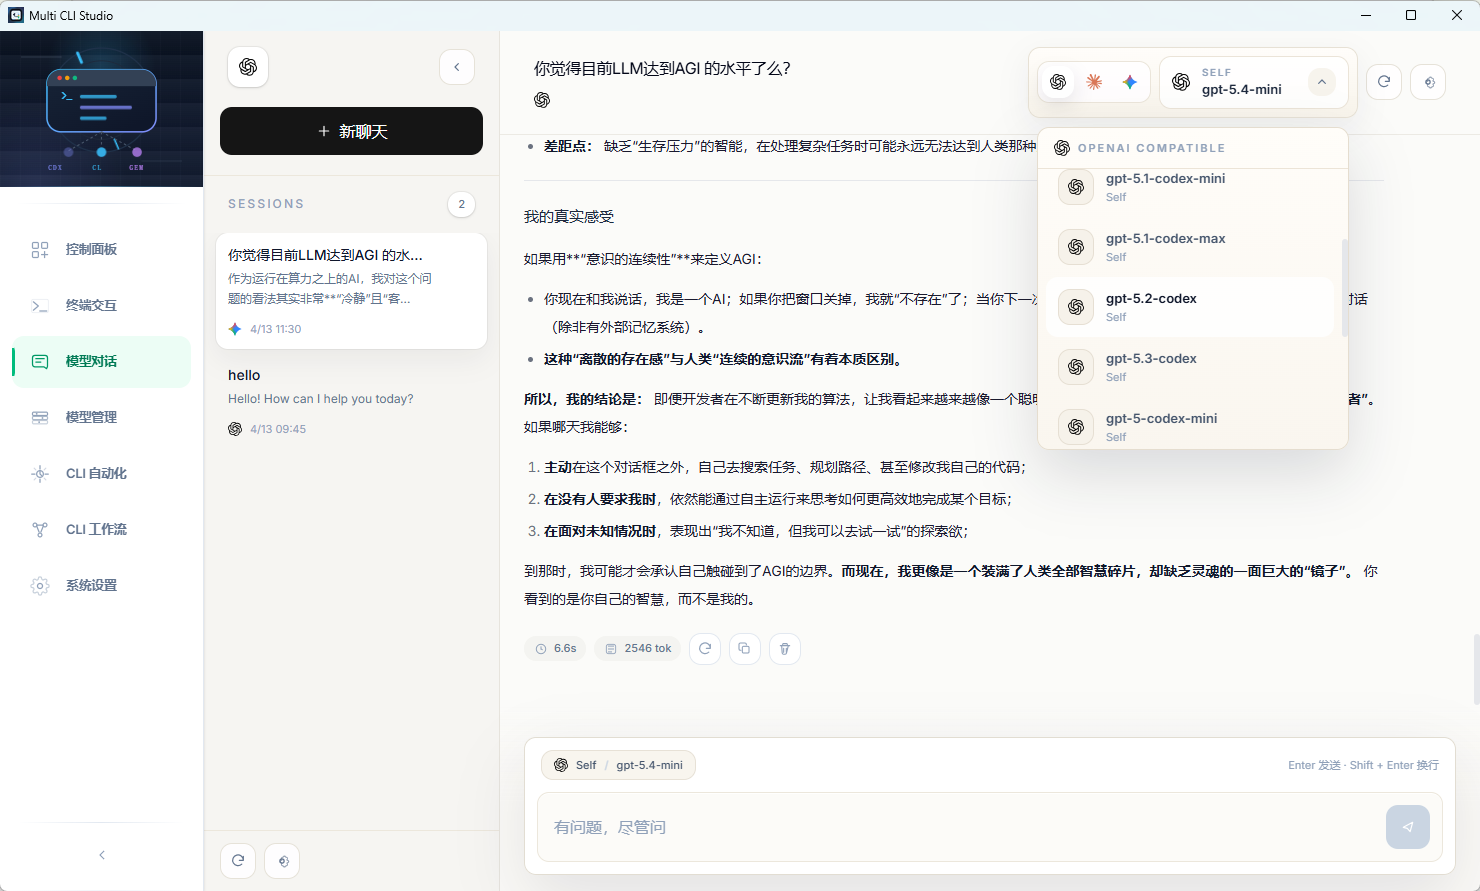
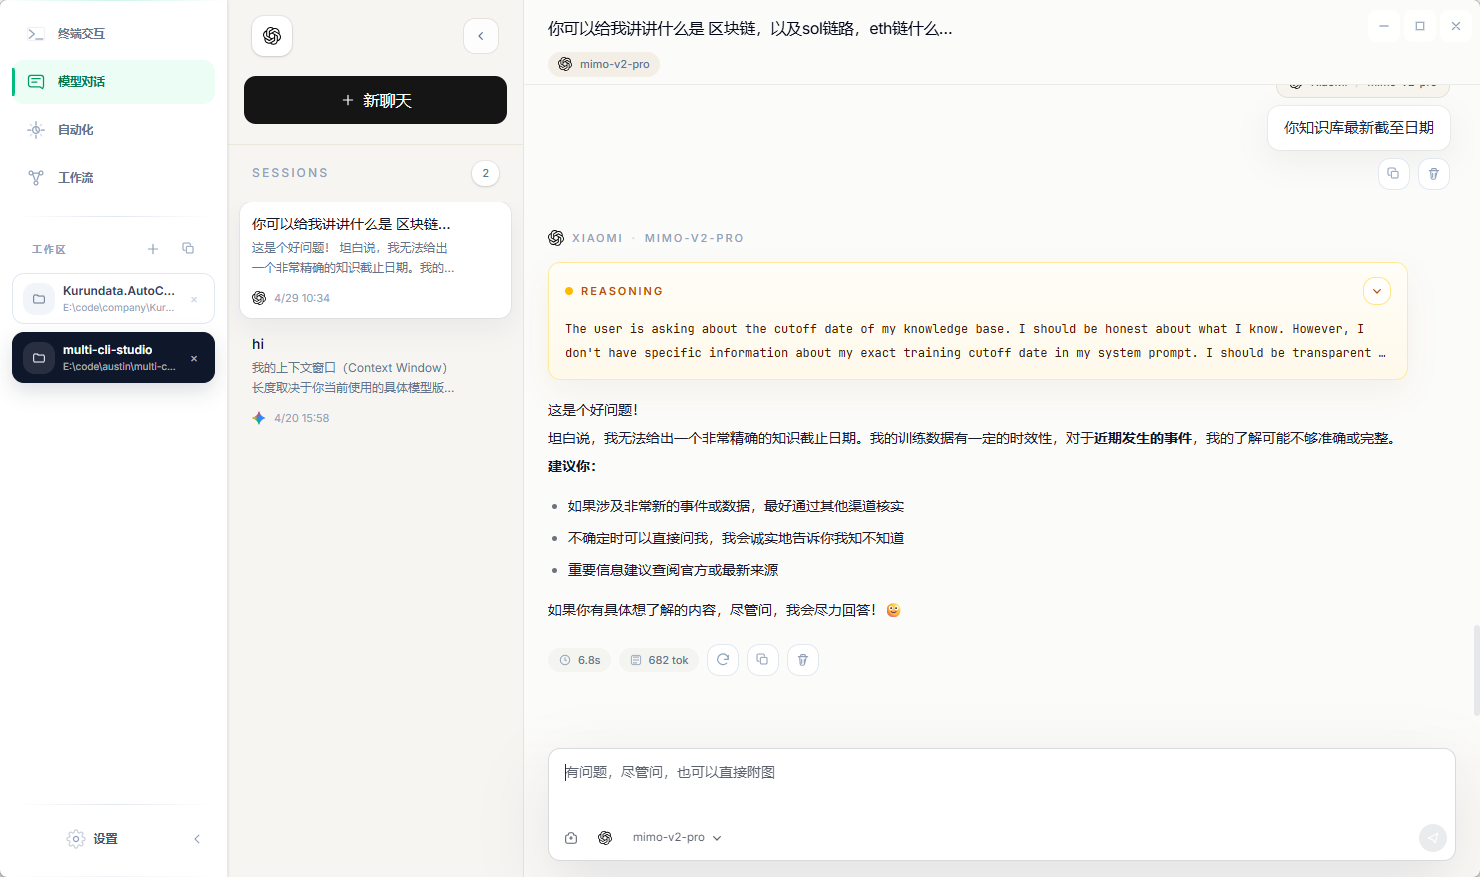
feat: README 添加示例图片

diff --git a/README.zh-CN.md b/README.zh-CN.md
@@ -42,7 +42,7 @@ Multi CLI Studio 的核心假设不是“选一个最强工具”，而是：
 
 ### 控制面板
 
-<img src="./docs/screenshots/index.png" alt="Dashboard" width="100%" />
+<img src="./docs/screenshots/terminal.png" alt="Dashboard" width="100%" />
 
 ### 终端交互
 
@@ -52,9 +52,6 @@ Multi CLI Studio 的核心假设不是“选一个最强工具”，而是：
 
 <img src="./docs/screenshots/chat.png" alt="Model Chat" width="100%" />
 
-### 模型管理
-
-<img src="./docs/screenshots/provider.png" alt="Model Providers" width="100%" />
 
 ### 自动化任务
 
@@ -67,6 +64,56 @@ Multi CLI Studio 的核心假设不是“选一个最强工具”，而是：
 ### 系统设置
 
 <img src="./docs/screenshots/settings.png" alt="Settings" width="100%" />
+
+
+### 对话模型
+
+<img src="./docs/screenshots/modelProvider.png" alt="Model Providers" width="100%" />
+
+
+### 智能体
+
+<img src="./docs/screenshots/agent.png" alt="Model Providers" width="100%" />
+
+
+### 提示词
+
+<img src="./docs/screenshots/prompt.png" alt="Model Providers" width="100%" />
+
+
+### 供应商
+
+<img src="./docs/screenshots/vendor.png" alt="Model Providers" width="100%" />
+
+
+### 项目
+
+<img src="./docs/screenshots/project.png" alt="Model Providers" width="100%" />
+
+
+### 连接
+
+<img src="./docs/screenshots/remote.png" alt="Model Providers" width="100%" />
+
+### Mcp
+
+<img src="./docs/screenshots/mcp.png" alt="Model Providers" width="100%" />
+
+
+### Hooks
+
+<img src="./docs/screenshots/hooks.png" alt="Model Providers" width="100%" />
+
+
+### Skill
+
+<img src="./docs/screenshots/skills.png" alt="Model Providers" width="100%" />
+
+### 使用统计
+
+<img src="./docs/screenshots/using.png" alt="Model Providers" width="100%" />
+
+
 
 ## 当前能力
 

diff --git a/README.md b/README.md
@@ -42,7 +42,7 @@ Multi CLI Studio is built around a different assumption:
 
 ### Dashboard
 
-<img src="./docs/screenshots/index.png" alt="Dashboard" width="100%" />
+<img src="./docs/screenshots/terminal.png" alt="Dashboard" width="100%" />
 
 ### Terminal Workspace
 
@@ -51,10 +51,6 @@ Multi CLI Studio is built around a different assumption:
 ### Model Chat
 
 <img src="./docs/screenshots/chat.png" alt="Model Chat" width="100%" />
-
-### Model Providers
-
-<img src="./docs/screenshots/provider.png" alt="Model Providers" width="100%" />
 
 ### Automation Jobs
 
@@ -67,6 +63,55 @@ Multi CLI Studio is built around a different assumption:
 ### Settings
 
 <img src="./docs/screenshots/settings.png" alt="Settings" width="100%" />
+
+
+### ModelProvider
+
+<img src="./docs/screenshots/modelProvider.png" alt="Model Providers" width="100%" />
+
+
+### Agent
+
+<img src="./docs/screenshots/agent.png" alt="Model Providers" width="100%" />
+
+
+### Prompt
+
+<img src="./docs/screenshots/prompt.png" alt="Model Providers" width="100%" />
+
+
+### Vendors
+
+<img src="./docs/screenshots/vendor.png" alt="Model Providers" width="100%" />
+
+
+### Project
+
+<img src="./docs/screenshots/project.png" alt="Model Providers" width="100%" />
+
+
+### Remote
+
+<img src="./docs/screenshots/remote.png" alt="Model Providers" width="100%" />
+
+### Mcp
+
+<img src="./docs/screenshots/mcp.png" alt="Model Providers" width="100%" />
+
+
+### Hooks
+
+<img src="./docs/screenshots/hooks.png" alt="Model Providers" width="100%" />
+
+
+### Skill
+
+<img src="./docs/screenshots/skills.png" alt="Model Providers" width="100%" />
+
+### Using
+
+<img src="./docs/screenshots/using.png" alt="Model Providers" width="100%" />
+
 
 ## Current Capabilities
 
